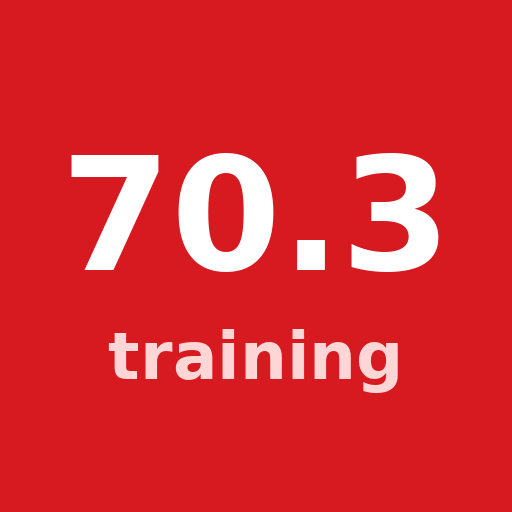
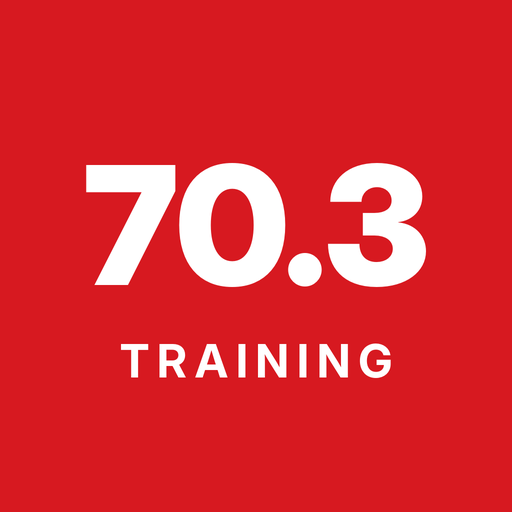
Új ikon: 70.3 TRAINING
Claude-Session: https://claude.ai/code/session_015zBap9DJ52AZoyY2cnZrmu

Changed region(s): [[0.125, 0.2812, 0.875, 0.5625], [0.2188, 0.625, 0.7812, 0.7812]]

diff --git a/index.html b/index.html
@@ -9,8 +9,8 @@
 <meta name="apple-mobile-web-app-title" content="Edzésterv">
 <meta name="theme-color" content="#ffffff" media="(prefers-color-scheme: light)"><meta name="theme-color" content="#0f141c" media="(prefers-color-scheme: dark)">
 <meta name="robots" content="noindex">
-<link rel="manifest" href="manifest.webmanifest?v=7">
-<link rel="apple-touch-icon" href="icon-180.png?v=7">
+<link rel="manifest" href="manifest.webmanifest?v=8">
+<link rel="apple-touch-icon" href="icon-180.png?v=8">
 <title>Edzésterv</title>
 <style>
 :root{--bg:#f4f5f8;--card:#fff;--ink:#16202e;--mute:#6b7585;--line:#e3e6ec;--acc:#d71920;--acc2:#e8a33d;--ok:#2e8b57;

diff --git a/sw.js b/sw.js
@@ -1,4 +1,4 @@
-const C = 'edzesterv-v8';
+const C = 'edzesterv-v9';
 const FILES = ['./', 'index.html', 'app.js', 'manifest.webmanifest', 'icon-180.png', 'icon-192.png', 'icon-512.png'];
 self.addEventListener('install', e => { e.waitUntil(caches.open(C).then(c => c.addAll(FILES))); self.skipWaiting(); });
 self.addEventListener('activate', e => { e.waitUntil(caches.keys().then(ks => Promise.all(ks.filter(k => k !== C).map(k => caches.delete(k))))); self.clients.claim(); });
